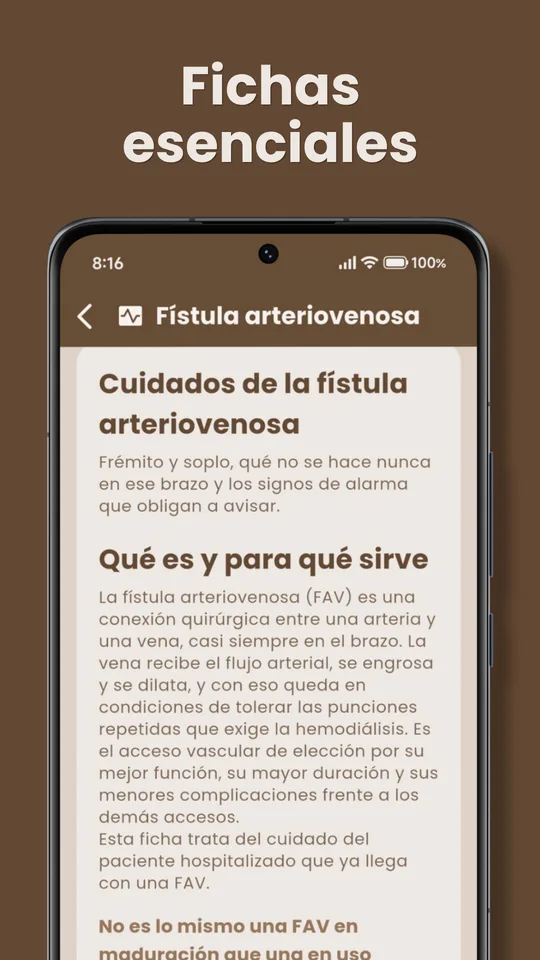
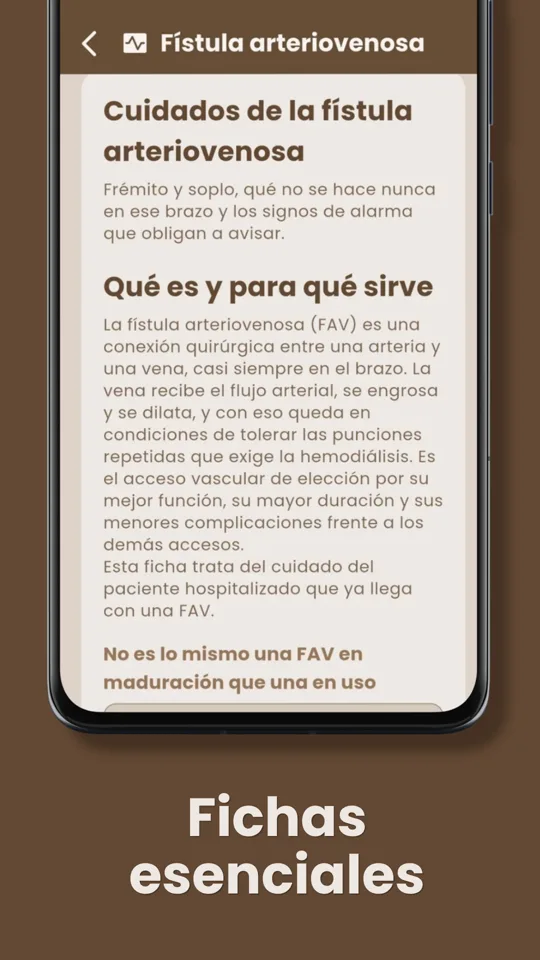
Landing: versión 1.5.0, nuevo texto de portada, NursClips, 9 NOM y donaciones

diff --git a/index.html b/index.html
@@ -119,6 +119,8 @@
   .btn:hover { filter: brightness(1.06); }
   .btn:active { transform: translateY(1px); }
   .btn-claro { background: var(--crema); color: var(--cafe); box-shadow: 0 10px 24px -10px rgba(0,0,0,.45); }
+  .btn-oscuro { background: var(--cafe); color: var(--crema); box-shadow: 0 10px 24px -10px rgba(0,0,0,.35); }
+  .apoya .nota { margin-top: 14px; }
 
   /* ---------------------------------------------------------------
      Aviso para quien viene a actualizar
@@ -369,8 +371,8 @@
         <span>Nurska</span>
       </div>
 
-      <h1>Tu referencia clínica de enfermería, siempre a la mano.</h1>
-      <p class="lede">Escalas, fármacos, calculadoras y fichas de consulta rápida. Todo vive dentro del teléfono y cada dato trae su fuente.</p>
+      <h1>Consulta rápida para tu turno.</h1>
+      <p class="lede">Nurska es una app gratuita de referencia clínica para enfermería: fármacos, escalas, calculadoras, normas oficiales y fichas esenciales, con fuente en cada dato y sin necesidad de internet. Es el proyecto de un estudiante de enfermería.</p>
 
       <ul class="promesas">
         <li><i class="ph ph-wifi-slash" aria-hidden="true"></i>Funciona sin señal</li>
@@ -383,7 +385,7 @@
         Descargar gratis
       </a>
       <!-- Valor de respaldo: el script del final lo actualiza con el último Release -->
-      <p class="descarga-nota" id="nota-version">Versión 1.4.0 para Android</p>
+      <p class="descarga-nota" id="nota-version">Versión 1.5.0 para Android</p>
     </div>
 
     <div class="telefono">
@@ -423,12 +425,13 @@
           <div class="modulo-barra">
             <i class="ph-fill ph-syringe" aria-hidden="true"></i>
             <h3>Farmacología</h3>
-            <span class="cuenta">42 fármacos</span>
+            <span class="cuenta">52 fármacos</span>
           </div>
           <dl>
-            <div><dt>Grupos</dt><dd>Analgésicos, anestésicos, antibióticos, anticoagulantes, antidepresivos, antieméticos, antihipertensivos, antiinflamatorios, broncodilatadores, diuréticos, electrolitos, hemostáticos, insulinas, protectores gástricos y vasodilatadores</dd></div>
+            <div><dt>Grupos</dt><dd>Analgésicos, anestésicos, antiarrítmicos, antibióticos, anticoagulantes, antidepresivos, antieméticos, antihipertensivos, antiinflamatorios, broncodilatadores, diuréticos, electrolitos, hemostáticos, insulinas, opioides, protectores gástricos, vasodilatadores y vasopresores</dd></div>
             <div><dt>Cada ficha</dt><dd>Indicaciones, contraindicaciones, vía de administración, farmacocinética, farmacodinamia, efectos adversos, interacciones, administración y precauciones</dd></div>
             <div><dt>Alto riesgo</dt><dd>Marca visible en los fármacos que la requieren</dd></div>
+            <div><dt>NursClips</dt><dd>Pestaña con lo esencial del video en los fármacos que tienen uno</dd></div>
           </dl>
         </article>
 
@@ -465,12 +468,13 @@
           <div class="modulo-barra">
             <i class="ph-fill ph-book-open" aria-hidden="true"></i>
             <h3>Normativas</h3>
-            <span class="cuenta">3 NOM</span>
+            <span class="cuenta">9 NOM</span>
           </div>
           <dl>
-            <div><dt>NOM-019-SSA3-2013</dt><dd>Práctica de enfermería en el Sistema Nacional de Salud</dd></div>
-            <div><dt>NOM-022-SSA3-2012</dt><dd>Terapia de infusión intravenosa</dd></div>
-            <div><dt>NOM-087-ECOL-SSA1-2002</dt><dd>Residuos peligrosos biológico-infecciosos</dd></div>
+            <div><dt>Práctica y registros</dt><dd>NOM-019 (práctica de enfermería), NOM-004 (expediente clínico) y NOM-022 (terapia de infusión intravenosa)</dd></div>
+            <div><dt>Infecciones</dt><dd>NOM-045 (infecciones nosocomiales) y NOM-006 (tuberculosis)</dd></div>
+            <div><dt>Servicios</dt><dd>NOM-027 (urgencias), NOM-025 (cuidados intensivos) y NOM-007 (embarazo, parto, puerperio y recién nacido)</dd></div>
+            <div><dt>Residuos</dt><dd>NOM-087 (residuos peligrosos biológico-infecciosos)</dd></div>
           </dl>
         </article>
 
@@ -486,7 +490,8 @@
       </div>
       <div class="capturas">
         <img src="assets/img/escalas.webp" alt="Escala de riesgo de caídas con el resultado de 3 puntos, riesgo alto" width="540" height="960" loading="lazy">
-        <img src="assets/img/farmaco.webp" alt="Ficha de furosemida con indicaciones, vía de administración y contraindicaciones" width="540" height="960" loading="lazy">
+        <img src="assets/img/farmaco.webp" alt="Ficha de un fármaco con indicaciones, vía de administración y contraindicaciones" width="540" height="960" loading="lazy">
+        <img src="assets/img/nursclips.webp" alt="Pestaña de NursClips dentro de la ficha de un fármaco" width="540" height="960" loading="lazy">
         <img src="assets/img/calculadora.webp" alt="Calculadora de dosis con el resultado en mililitros a administrar" width="540" height="960" loading="lazy">
         <img src="assets/img/esenciales.webp" alt="Ficha esencial de cuidados de la fístula arteriovenosa" width="540" height="960" loading="lazy">
       </div>
@@ -552,21 +557,34 @@
       </div>
 
       <div class="version">
-        <div class="version-cabeza"><b>Versión 1.4.0</b><span>Octubre de 2026</span></div>
+        <div class="version-cabeza"><b>Versión 1.5.0</b><span>31 de octubre de 2026</span></div>
         <ul>
-          <li>Modo oscuro: la app sigue el tema del teléfono, y en el menú se puede elegir claro u oscuro.</li>
-          <li>Farmacología pasa de 26 a 42 fármacos, con cinco categorías nuevas: electrolitos, antidepresivos, hemostáticos, anestésicos y vasodilatadores.</li>
-          <li>Las categorías de Farmacología aparecen en orden alfabético, y cada ficha muestra la vía de administración como una etiqueta.</li>
-          <li>Nueva escala de signos vitales del adulto, con la presión arterial clasificada según la NOM-030 y fichas de valores de laboratorio.</li>
-          <li>Los signos vitales pediátricos suman una pestaña de Información con las tablas de referencia por edad.</li>
-          <li>Cuatro fichas nuevas en Esenciales: modos ventilatorios básicos, ventiladores mecánicos, catéter venoso central y catéter PICC.</li>
-          <li>La ficha de dispositivos de oxígeno se divide en bajo y alto flujo, con el sistema Airvo 2 y la FiO2 en porcentaje; las fichas de oxígeno y ventilación abren con un glosario plegable.</li>
-          <li>Corregido el separador decimal en las calculadoras: escribir una coma ya no borra el decimal.</li>
+          <li>Bienvenida para quien instala Nurska por primera vez: qué trae, cómo se usa, contacto y apoyo voluntario.</li>
+          <li>La app inicia en tema claro y recuerda el tema que se elija en el menú.</li>
+          <li>Farmacología pasa de 42 a 52 fármacos, con tres categorías nuevas (antiarrítmicos, opioides y vasopresores) y rifampicina en antibióticos.</li>
+          <li>Las fichas de los fármacos que aparecen en NursClips suman una pestaña con lo esencial del video.</li>
+          <li>Normativas pasa de 3 a 9 normas oficiales, con cuatro categorías nuevas: expediente clínico, infecciones, urgencias y cuidados intensivos, y obstetricia y neonatología.</li>
+          <li>Acerca de suma los enlaces de NursClips y un botón de donación voluntaria.</li>
+          <li>Corrección de errores.</li>
         </ul>
       </div>
 
       <details class="anteriores">
         <summary>Versiones anteriores</summary>
+        <div class="version">
+          <div class="version-cabeza"><b>Versión 1.4.0</b><span>Octubre de 2026</span></div>
+          <ul>
+            <li>Modo oscuro: la app sigue el tema del teléfono, y en el menú se puede elegir claro u oscuro.</li>
+            <li>Farmacología pasa de 26 a 42 fármacos, con cinco categorías nuevas: electrolitos, antidepresivos, hemostáticos, anestésicos y vasodilatadores.</li>
+            <li>Las categorías de Farmacología aparecen en orden alfabético, y cada ficha muestra la vía de administración como una etiqueta.</li>
+            <li>Nueva escala de signos vitales del adulto, con la presión arterial clasificada según la NOM-030 y fichas de valores de laboratorio.</li>
+            <li>Los signos vitales pediátricos suman una pestaña de Información con las tablas de referencia por edad.</li>
+            <li>Cuatro fichas nuevas en Esenciales: modos ventilatorios básicos, ventiladores mecánicos, catéter venoso central y catéter PICC.</li>
+            <li>La ficha de dispositivos de oxígeno se divide en bajo y alto flujo, con el sistema Airvo 2 y la FiO2 en porcentaje; las fichas de oxígeno y ventilación abren con un glosario plegable.</li>
+            <li>Corregido el separador decimal en las calculadoras: escribir una coma ya no borra el decimal.</li>
+          </ul>
+        </div>
+
         <div class="version">
           <div class="version-cabeza"><b>Versión 1.2.1</b><span>30 de agosto de 2026</span></div>
           <ul>
@@ -597,6 +615,20 @@
           <ul><li>Primera versión de Nurska: escalas clínicas, calculadoras, farmacología y normas oficiales, todo sin conexión.</li></ul>
         </div>
       </details>
+    </div>
+  </section>
+
+  <section id="apoya" class="capturas-fondo">
+    <div class="wrap apoya">
+      <div class="encabezado">
+        <h2>Apoya a Nurska</h2>
+        <p>Nurska está en fase beta y sigue creciendo. Es gratis y lo seguirá siendo; la desarrolla un estudiante de enfermería en su tiempo libre. Si te ha servido y quieres apoyar su desarrollo, una donación voluntaria ayuda a sumar contenido y mantenerla al día.</p>
+      </div>
+      <a class="btn btn-oscuro" href="https://link.mercadopago.com.mx/nurska" target="_blank" rel="noopener">
+        <i class="ph ph-heart" aria-hidden="true"></i>
+        Donar con Mercado Pago
+      </a>
+      <p class="nota"><span>Desde 1 peso. No es necesaria para usar la app.</span></p>
     </div>
   </section>
 
